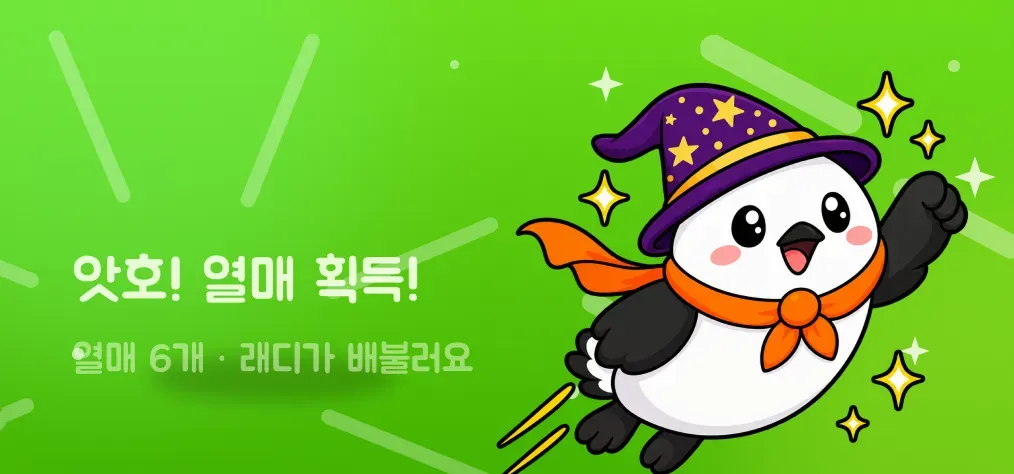
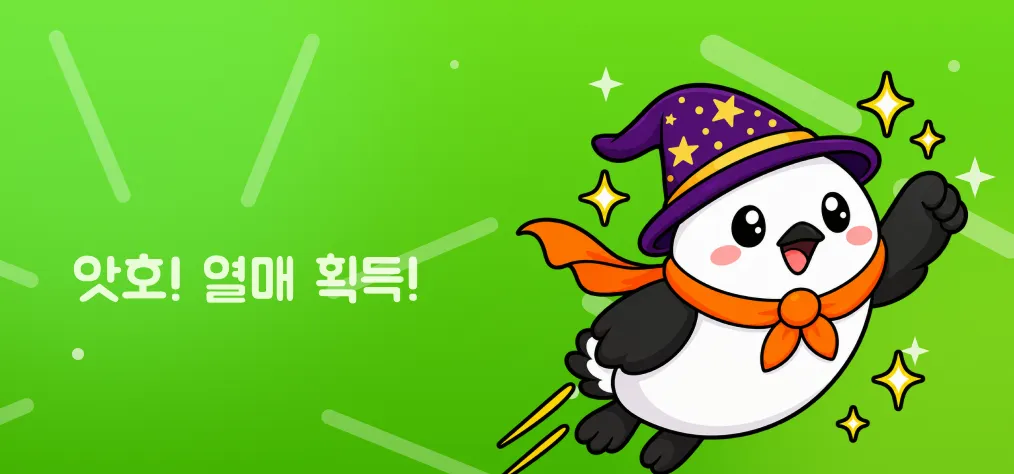
design(mobile): 완료 계열 4×2 아트에서 굳은 부제를 뺀다
완료·하트·열매획득 Medium 아트에 '열매 6개 · 래디가 배불러요'가
그림으로 박혀 있었다. 숫자 6이 고정이라 스트릭이 몇이든 6개로
보인다. 부제 줄을 빼고 다시 뽑았다.

아트 버전을 올려 기존 설치가 공유 폴더에 다시 복사하게 한다.

Changed region(s): [[0.0611, 0.7089, 0.4586, 0.8565], [0.4892, 0.9747, 0.5197, 1.0]]

diff --git a/apps/mobile/src/widgets/widget-art.ts b/apps/mobile/src/widgets/widget-art.ts
@@ -1,6 +1,6 @@
 // 위젯 아트 매니페스트 — 상태×사이즈별 webp를 정적 require로 묶는다
 // 생성 파일: scripts/generate-widget-art.mjs 로 다시 만든다 (아트 원본 = 피그마 "🧩 위젯 Final" 보드)
-export const WIDGET_ART_VERSION = 9;
+export const WIDGET_ART_VERSION = 10;
 
 export const WIDGET_ART: Record<string, number> = {
   'arrived-large': require('../../assets/widgets/arrived-large.webp'),
